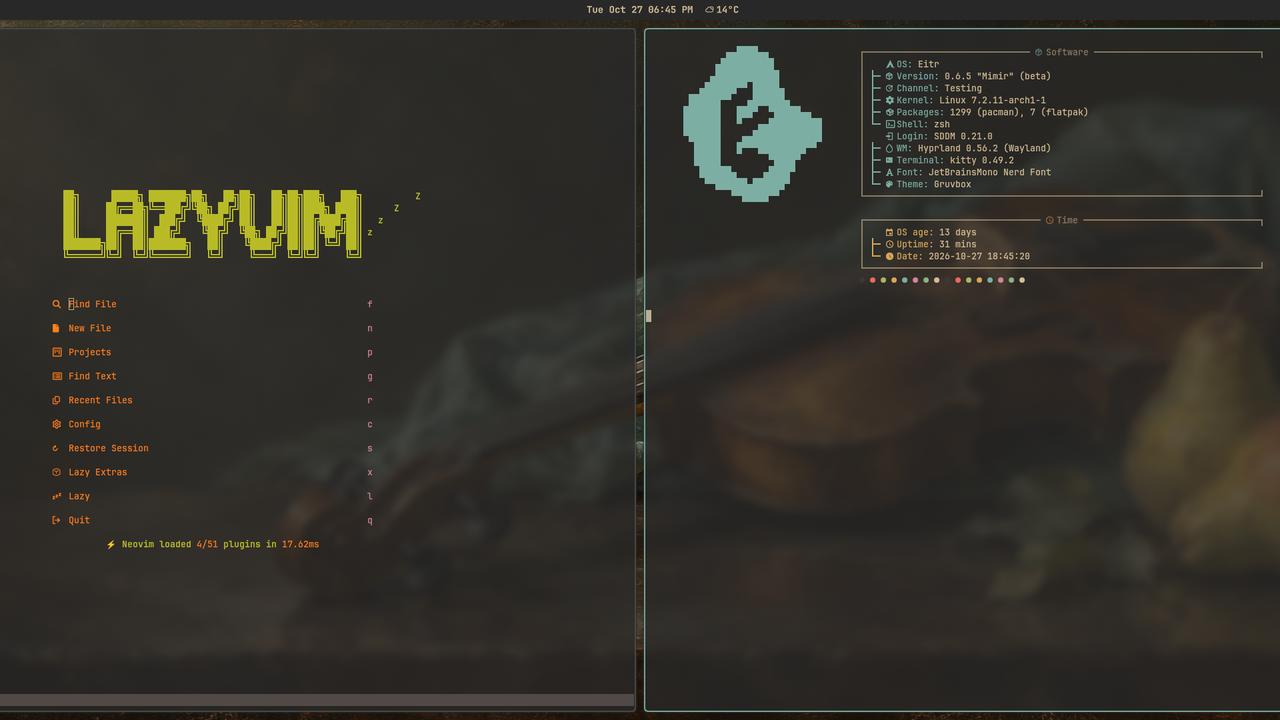
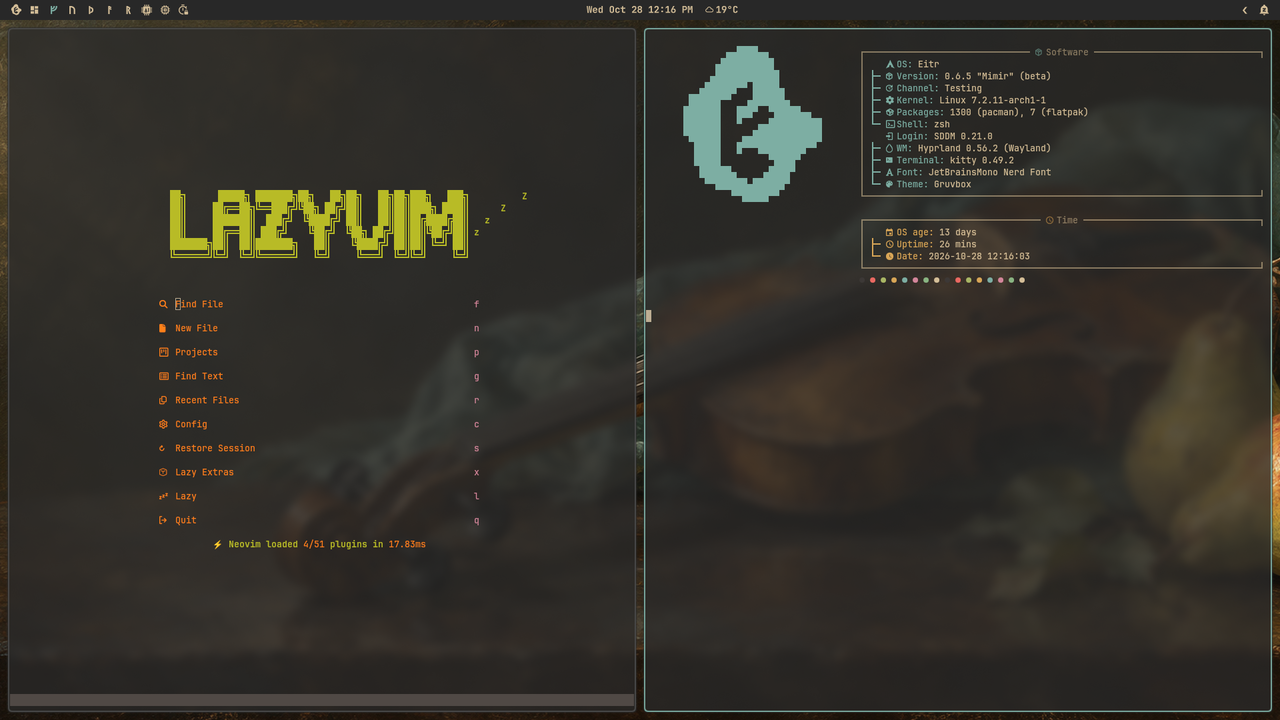
Neovim's start screen stays transparent; full-screen theme previews
Colour schemes that paint LazyVim's Snacks start screen (Vanaheim's Miasma)
showed a solid block; the transparency list now clears those groups too, and a
login migration updates unedited copies. All 25 previews are full 1920x1080
screens of Neovim and About, no longer cropped from an ultrawide capture.

diff --git a/distro/tests/test_migrations.py b/distro/tests/test_migrations.py
@@ -137,6 +137,32 @@ if __name__ == '__main__':
     unittest.main()
 
 
+class NeovimSnacksTransparencyMigrationTests(unittest.TestCase):
+    MIGRATION = ROOT / 'distro/migrations/20261028150000-nvim-snacks-transparent.py'
+
+    def run_migration(self, text):
+        with tempfile.TemporaryDirectory() as directory:
+            target = Path(directory) / 'nvim/lua/config/autocmds.lua'
+            if text is not None:
+                target.parent.mkdir(parents=True)
+                target.write_text(text)
+            subprocess.run([sys.executable, str(self.MIGRATION)], env=dict(os.environ, XDG_CONFIG_HOME=directory), check=True)
+            return target.read_text() if target.exists() else None
+
+    def test_the_previously_shipped_file_becomes_the_current_one(self):
+        current = (ROOT / 'nvim/lua/config/autocmds.lua').read_text()
+        names = {}
+        exec(compile(self.MIGRATION.read_text().split('base = os.environ')[0], str(self.MIGRATION), 'exec'), names)
+        old = current.replace(names['NEW'], names['OLD'])
+        self.assertNotEqual(old, current)
+        self.assertEqual(self.run_migration(old), current)
+        self.assertEqual(self.run_migration(current), current)
+
+    def test_edited_or_missing_files_are_left_alone(self):
+        self.assertEqual(self.run_migration('-- my own autocmds\n'), '-- my own autocmds\n')
+        self.assertIsNone(self.run_migration(None))
+
+
 class NeovimShippedThemesMigrationTests(unittest.TestCase):
     MIGRATION = ROOT / 'distro/migrations/20261027020000-nvim-shipped-themes.py'
 

diff --git a/distro/migrations/20261028150000-nvim-snacks-transparent.py b/distro/migrations/20261028150000-nvim-snacks-transparent.py
@@ -1,0 +1,25 @@
+"""Keep Neovim's start screen transparent with every theme.
+
+The seeded ~/.config/nvim/lua/config/autocmds.lua cleared the editor's own
+background groups after a colour scheme loads, but not the Snacks groups that
+draw LazyVim's start screen, so a scheme that colours them (Vanaheim's Miasma)
+showed a solid block. Only the unedited list end changes; edited copies are left alone.
+"""
+import os
+from pathlib import Path
+
+OLD = '    "TermNormalNC",\n  }) do\n'
+NEW = '    "TermNormalNC",\n    "SnacksNormal",\n    "SnacksNormalNC",\n    "SnacksDashboardNormal",\n  }) do\n'
+
+base = os.environ.get("XDG_CONFIG_HOME", "")
+config = Path(base) if base.startswith("/") else Path.home() / ".config"
+path = config / "nvim/lua/config/autocmds.lua"
+try:
+    text = path.read_text()
+except FileNotFoundError:
+    text = ""
+if OLD in text and NEW not in text and not path.is_symlink():
+    temporary = path.with_name(".autocmds.lua.eitr-migration")
+    temporary.write_text(text.replace(OLD, NEW))
+    os.chmod(temporary, path.stat().st_mode & 0o777)
+    os.replace(temporary, path)
